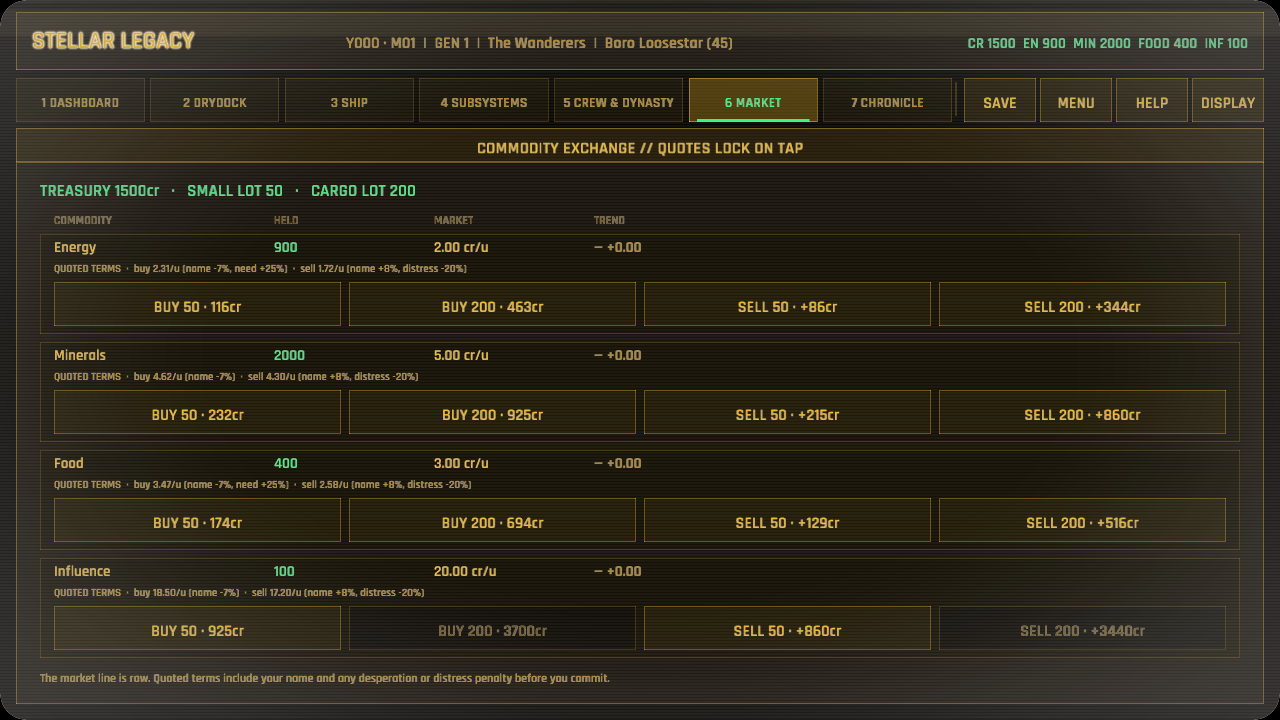
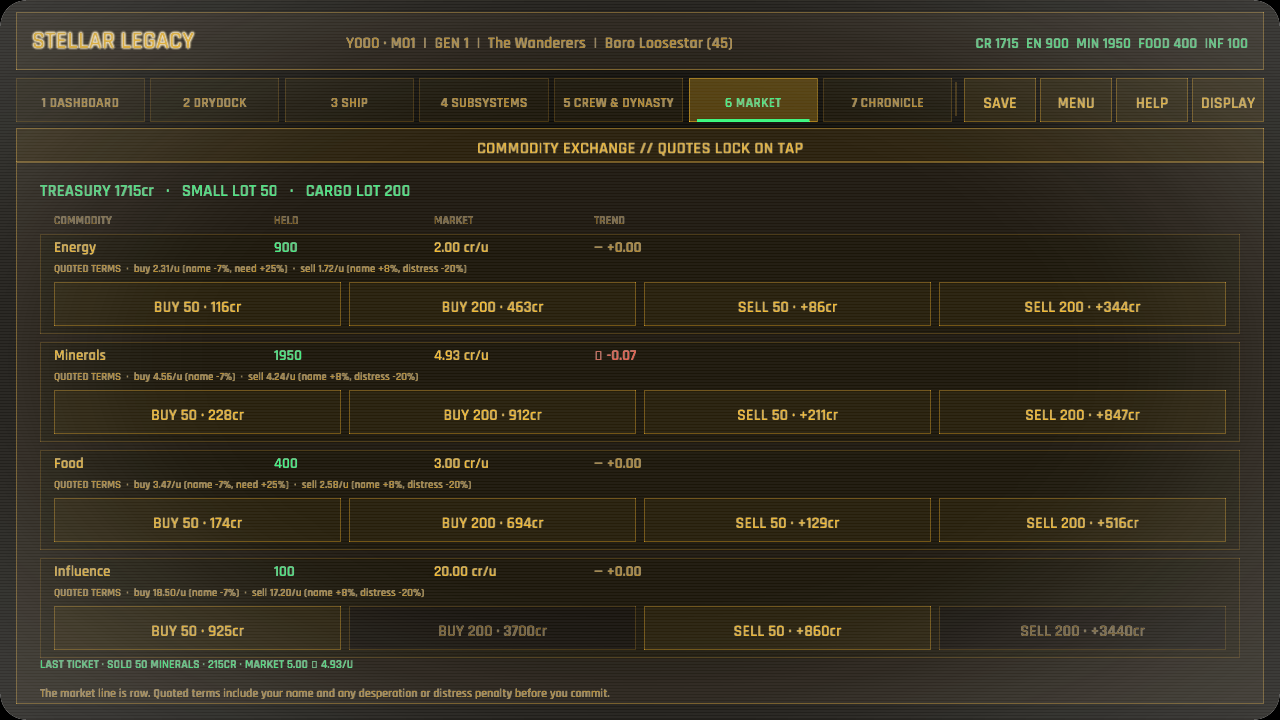
Every bargain leaves its mark on the exchange board (market settlement feedback)
Bulk trades already moved thin local prices, but the visible trend continued reporting an older yearly drift and the transaction toast omitted both the settled total and the next quote. Each successful trade now persists a backward-compatible settlement ticket, updates the row's trend to the actual player-caused movement, and reports amount, credits, and before-to-after market price on the exchange and notification. Tests cover buy and sell receipts, trend integrity, persistence, and old-save defaults; the refreshed market capture exercises distress terms and a completed sale.

diff --git a/src/simulation/market.rs b/src/simulation/market.rs
@@ -1,7 +1,7 @@
 //! Market trading and yearly price drift (GDD §5.1 "Keep as-is").
 
 use crate::data::ResourceDelta;
-use crate::state::sim::{base_price, SimState, TradeResource};
+use crate::state::sim::{base_price, SimState, TradeReceipt, TradeResource};
 
 /// A price the exchange can show before the player commits. Keeping the
 /// modifier factors beside the total lets the UI explain why the effective
@@ -97,11 +97,16 @@ fn desperation_factor(sim: &SimState, resource: TradeResource) -> f32 {
     }
 }
 
-pub fn buy(sim: &mut SimState, resource: TradeResource, amount: i64) -> Result<(), String> {
+pub fn buy(
+    sim: &mut SimState,
+    resource: TradeResource,
+    amount: i64,
+) -> Result<TradeReceipt, String> {
     if amount <= 0 {
         return Err("Trade amount must be positive".to_owned());
     }
-    let cost = buy_quote(sim, resource, amount).total_credits;
+    let quote = buy_quote(sim, resource, amount);
+    let cost = quote.total_credits;
     let delta = trade_delta(resource, amount, -cost);
     if !sim.resources.can_afford(&delta) {
         return Err(format!("Need {cost} credits"));
@@ -109,8 +114,17 @@ pub fn buy(sim: &mut SimState, resource: TradeResource, amount: i64) -> Result<(
     sim.resources.apply(&delta);
     // The ship's own demand moves the thin local market (content-depth provisioning
     // round 22): buying up a good drives its price up against the next lot.
-    shift_price(sim, resource, amount);
-    Ok(())
+    let market_price_after = shift_price(sim, resource, amount);
+    let receipt = TradeReceipt {
+        buying: true,
+        resource,
+        amount,
+        total_credits: cost,
+        market_price_before: quote.market_unit_price,
+        market_price_after,
+    };
+    sim.market.last_trade = Some(receipt);
+    Ok(receipt)
 }
 
 /// The discount the market takes on a *sell* the ship makes while its treasury is critically bare
@@ -165,19 +179,33 @@ pub fn sell_quote(sim: &SimState, resource: TradeResource, amount: i64) -> Trade
     }
 }
 
-pub fn sell(sim: &mut SimState, resource: TradeResource, amount: i64) -> Result<(), String> {
+pub fn sell(
+    sim: &mut SimState,
+    resource: TradeResource,
+    amount: i64,
+) -> Result<TradeReceipt, String> {
     if amount <= 0 {
         return Err("Trade amount must be positive".to_owned());
     }
-    let proceeds = sell_quote(sim, resource, amount).total_credits;
+    let quote = sell_quote(sim, resource, amount);
+    let proceeds = quote.total_credits;
     let delta = trade_delta(resource, -amount, proceeds);
     if !sim.resources.can_afford(&delta) {
         return Err(format!("Not enough {} to sell", resource.label()));
     }
     sim.resources.apply(&delta);
     // …and dumping a surplus floods the market and drives its price down (round 22).
-    shift_price(sim, resource, -amount);
-    Ok(())
+    let market_price_after = shift_price(sim, resource, -amount);
+    let receipt = TradeReceipt {
+        buying: false,
+        resource,
+        amount,
+        total_credits: proceeds,
+        market_price_before: quote.market_unit_price,
+        market_price_after,
+    };
+    sim.market.last_trade = Some(receipt);
+    Ok(receipt)
 }
 
 /// Move a resource's local price by the ship's own trade (content-depth provisioning
@@ -186,10 +214,10 @@ pub fn sell(sim: &mut SimState, resource: TradeResource, amount: i64) -> Result<
 /// the same 0.5x-3x band the yearly drift honours. The drift then walks it back toward
 /// base over the following years, so a bulk trade's mark on the market is real but
 /// temporary. Inert when `impact_per_unit` is 0.
-fn shift_price(sim: &mut SimState, resource: TradeResource, signed_amount: i64) {
+fn shift_price(sim: &mut SimState, resource: TradeResource, signed_amount: i64) -> f32 {
     let k = sim.market.impact_per_unit;
     if k == 0.0 {
-        return;
+        return price_of(sim, resource);
     }
     let base = base_price(resource);
     let shift = base * k * signed_amount as f32;
@@ -199,7 +227,12 @@ fn shift_price(sim: &mut SimState, resource: TradeResource, signed_amount: i64) 
         .iter_mut()
         .find(|e| e.resource == resource)
     {
+        let old = entry.price;
         entry.price = (entry.price + shift).clamp(base * 0.5, base * 3.0);
+        entry.trend = entry.price - old;
+        entry.price
+    } else {
+        base
     }
 }
 

diff --git a/src/simulation/market/tests.rs b/src/simulation/market/tests.rs
@@ -14,12 +14,35 @@ fn buy_and_sell_move_credits_and_goods() {
     let credits_before = sim.resources.credits;
     let food_before = sim.resources.food;
 
-    buy(&mut sim, TradeResource::Food, 100).unwrap();
+    let receipt = buy(&mut sim, TradeResource::Food, 100).unwrap();
     assert_eq!(sim.resources.food, food_before + 100);
     assert!(sim.resources.credits < credits_before);
+    assert!(receipt.market_price_after > receipt.market_price_before);
+    assert_eq!(sim.market.last_trade, Some(receipt));
 
-    sell(&mut sim, TradeResource::Food, 100).unwrap();
+    let receipt = sell(&mut sim, TradeResource::Food, 100).unwrap();
     assert_eq!(sim.resources.food, food_before);
+    assert!(receipt.market_price_after < receipt.market_price_before);
+    assert_eq!(sim.market.last_trade, Some(receipt));
+}
+
+#[test]
+fn old_market_saves_default_to_no_settlement_ticket() {
+    let data = GameData::load().unwrap();
+    let sim = SimState::new_campaign(
+        &data,
+        "wanderers",
+        12,
+        &crate::state::sim::founding_faction_ids(&data),
+    );
+    let mut value = serde_json::to_value(sim).unwrap();
+    value["market"]
+        .as_object_mut()
+        .unwrap()
+        .remove("last_trade");
+
+    let migrated: SimState = serde_json::from_value(value).unwrap();
+    assert!(migrated.market.last_trade.is_none());
 }
 
 #[test]
@@ -222,6 +245,13 @@ fn the_ships_own_trades_move_the_thin_local_market() {
         after_buy > before,
         "buying a bulk lot drives the price up: {before} -> {after_buy}"
     );
+    let entry = sim
+        .market
+        .entries
+        .iter()
+        .find(|entry| entry.resource == TradeResource::Minerals)
+        .unwrap();
+    assert_eq!(entry.trend, after_buy - before);
 
     // Dumping a surplus floods the market and drives the price back down.
     sell(&mut sim, TradeResource::Minerals, 3_000).unwrap();

diff --git a/src/game/actions.rs b/src/game/actions.rs
@@ -533,9 +533,12 @@ impl Game {
             UiAction::Buy(resource, amount) => {
                 if let GameState::Gameplay(gameplay) = &mut self.state {
                     match market::buy(&mut gameplay.sim, resource, amount) {
-                        Ok(()) => self
-                            .notifications
-                            .success(format!("Bought {amount} {}", resource.label())),
+                        Ok(receipt) => self.notifications.success(format!(
+                            "Bought {amount} {} for {}cr · next {:.2}/u",
+                            resource.label(),
+                            receipt.total_credits,
+                            receipt.market_price_after
+                        )),
                         Err(err) => self.notifications.warning(err),
                     }
                 }
@@ -544,9 +547,12 @@ impl Game {
             UiAction::Sell(resource, amount) => {
                 if let GameState::Gameplay(gameplay) = &mut self.state {
                     match market::sell(&mut gameplay.sim, resource, amount) {
-                        Ok(()) => self
-                            .notifications
-                            .success(format!("Sold {amount} {}", resource.label())),
+                        Ok(receipt) => self.notifications.success(format!(
+                            "Sold {amount} {} for {}cr · next {:.2}/u",
+                            resource.label(),
+                            receipt.total_credits,
+                            receipt.market_price_after
+                        )),
                         Err(err) => self.notifications.warning(err),
                     }
                 }

diff --git a/src/state/sim/market.rs b/src/state/sim/market.rs
@@ -34,13 +34,27 @@ impl TradeResource {
 pub struct MarketEntry {
     pub resource: TradeResource,
     pub price: f32,
-    /// Signed change applied by the most recent yearly drift.
+    /// Signed change from the latest drift or player trade.
     pub trend: f32,
+}
+
+/// The exchange's last settled ticket. Kept with market state so leaving and
+/// returning to the screen does not erase what the player just moved.
+#[derive(Debug, Clone, Copy, PartialEq, Serialize, Deserialize)]
+pub struct TradeReceipt {
+    pub buying: bool,
+    pub resource: TradeResource,
+    pub amount: i64,
+    pub total_credits: i64,
+    pub market_price_before: f32,
+    pub market_price_after: f32,
 }
 
 #[derive(Debug, Clone, Serialize, Deserialize)]
 pub struct MarketState {
     pub entries: Vec<MarketEntry>,
+    #[serde(default)]
+    pub last_trade: Option<TradeReceipt>,
     /// How much a bulk trade moves the local price against the ship (content-depth
     /// provisioning round 22): a lone generation ship trading at a small waypoint is a
     /// whale in a thin pool — buying up a good drives its price up, dumping a surplus

diff --git a/src/ui/market.rs b/src/ui/market.rs
@@ -186,10 +186,26 @@ pub fn draw(ctx: &GameplayCtx<'_>, area: Rect, pointer: Pointer, actions: &mut V
         y += ROW_H + ROW_GAP;
     }
 
+    if let Some(receipt) = ctx.sim.market.last_trade {
+        draw_ui_text_ex(
+            &format!(
+                "LAST TICKET · {} {} {} · {}CR · MARKET {:.2} → {:.2}/U",
+                if receipt.buying { "BOUGHT" } else { "SOLD" },
+                receipt.amount,
+                receipt.resource.label().to_uppercase(),
+                receipt.total_credits,
+                receipt.market_price_before,
+                receipt.market_price_after
+            ),
+            content.x,
+            y + 2.0,
+            TextStyle::new(12.0, term::accent()).params(),
+        );
+    }
     draw_text_block(
         "The market line is raw. Quoted terms include your name and any desperation or distress penalty before you commit.",
         content.x,
-        y + 4.0,
+        y + 19.0,
         content.w,
         34.0,
         12.0,

diff --git a/src/game/capture_scenes.rs b/src/game/capture_scenes.rs
@@ -343,6 +343,11 @@ impl Game {
                 sim.resources.credits = self.data.config.distress_credit_floor - 500;
                 sim.resources.food = (self.data.config.low_food_threshold - 100).max(0);
                 sim.resources.energy = (self.data.config.low_energy_threshold - 100).max(0);
+                let _ = crate::simulation::market::sell(
+                    &mut sim,
+                    crate::state::sim::TradeResource::Minerals,
+                    50,
+                );
                 let mut gameplay = GameplayState::new(sim);
                 gameplay.screen = Screen::Market;
                 self.state = crate::state::GameState::Gameplay(Box::new(gameplay));

diff --git a/src/state/sim/campaign.rs b/src/state/sim/campaign.rs
@@ -32,6 +32,7 @@ impl SimState {
                     trend: 0.0,
                 })
                 .collect(),
+            last_trade: None,
             impact_per_unit: config.market_impact_per_unit,
             trade_reputation_scale: config.trade_reputation_scale,
             desperation_premium: config.market_desperation_premium,
